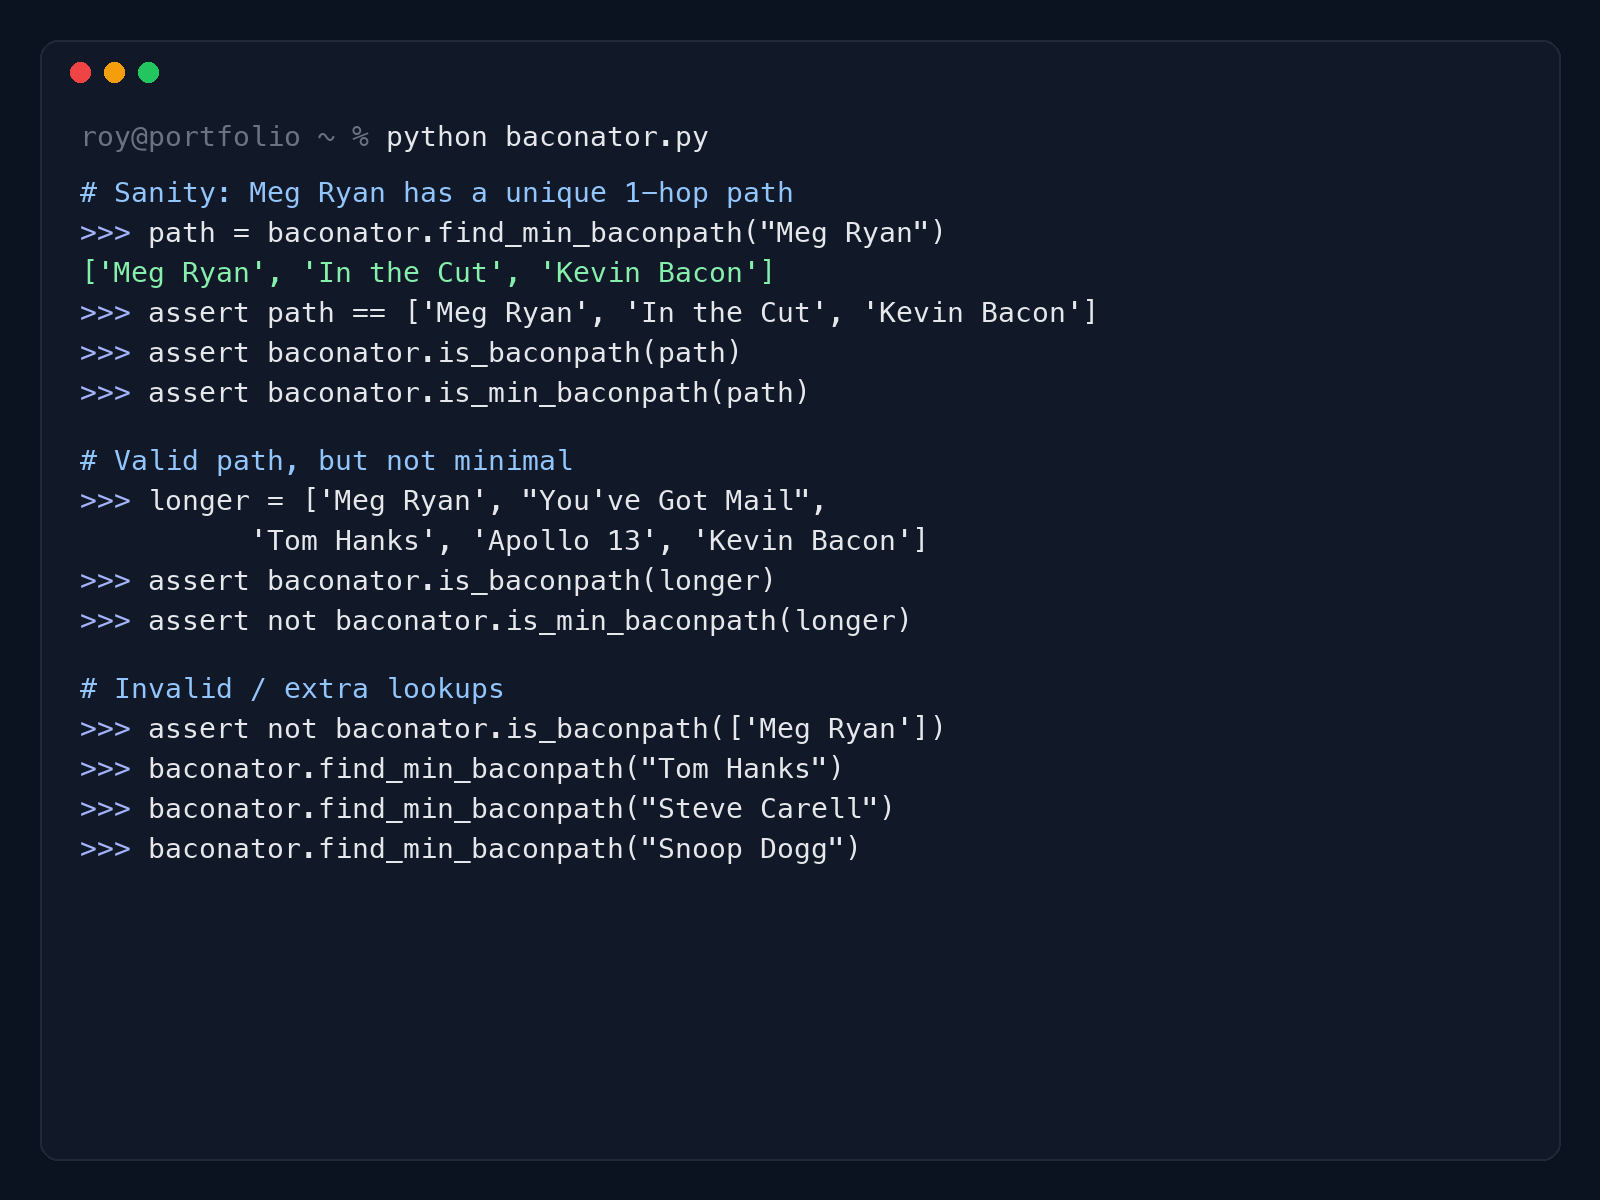
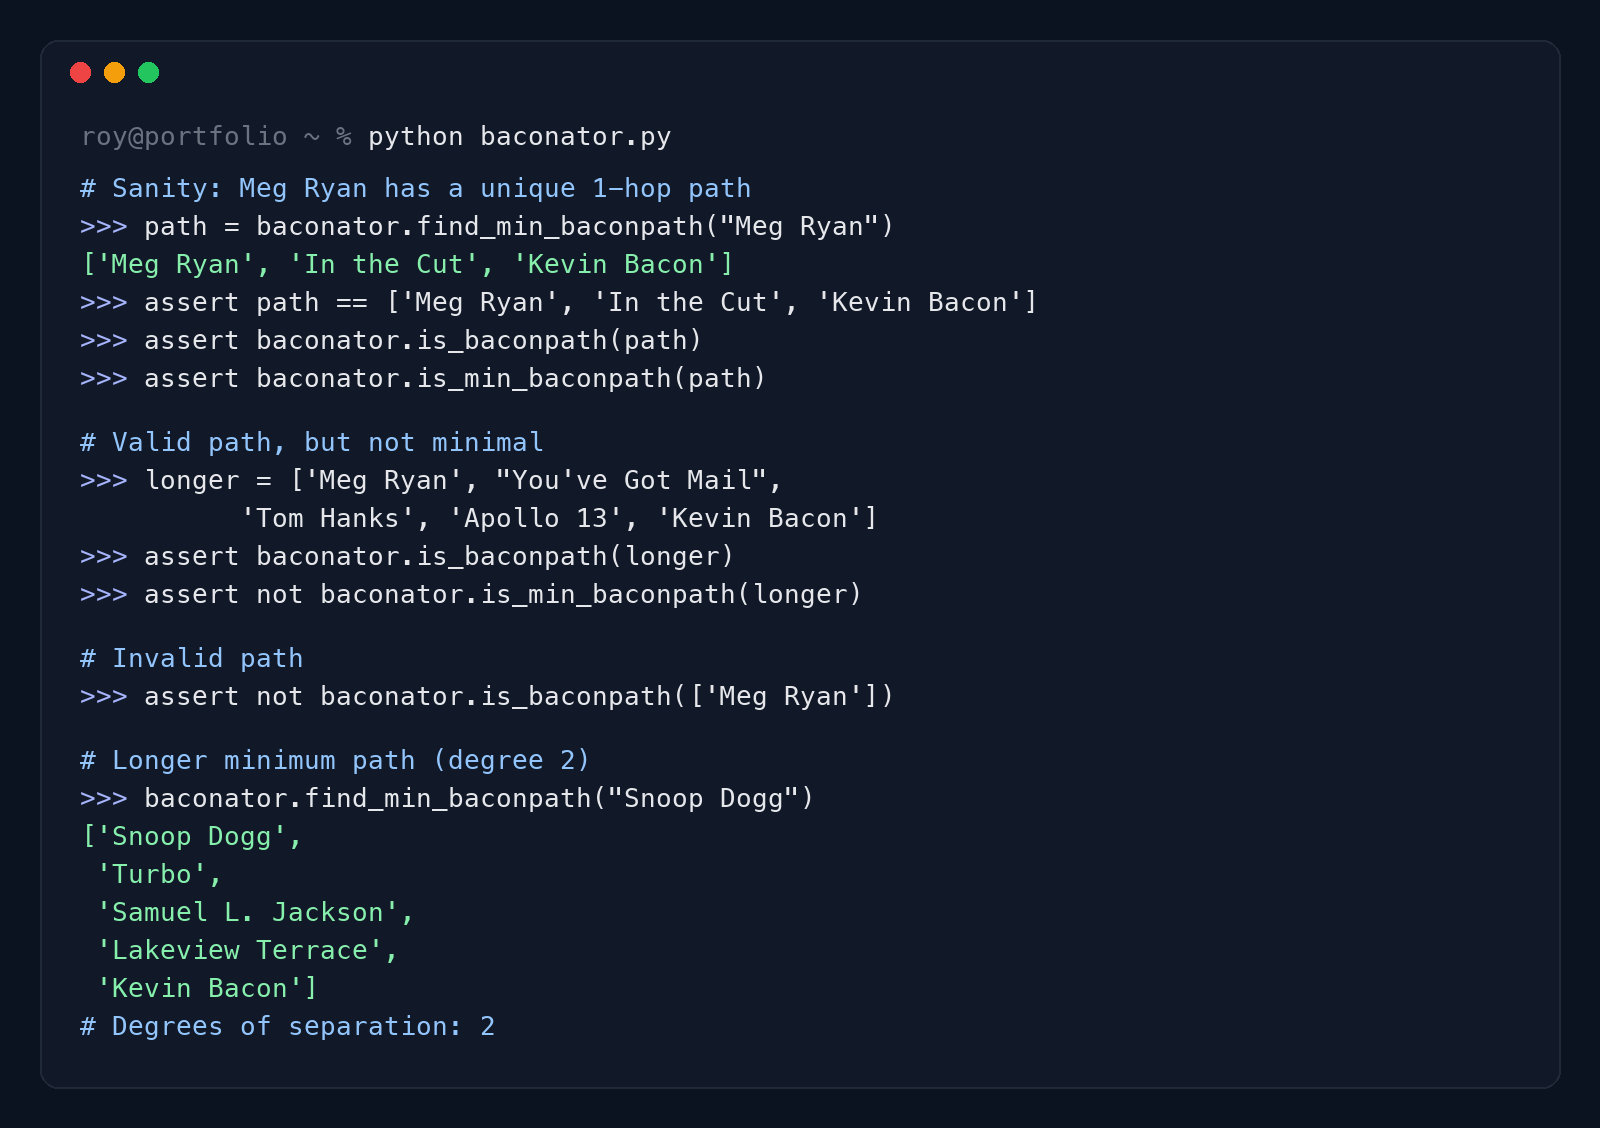
Add degree-2 Snoop Dogg path to Kevin Bacon test cases slide.

Changed region(s): [[0.0312, 0.3723, 0.5938, 0.9309], [0.0312, 0.0931, 0.6875, 0.3413]]

diff --git a/app/lib/projectImages.ts b/app/lib/projectImages.ts
@@ -340,6 +340,6 @@ export const SIX_DEGREES_KEVIN_BACON_MEDIA: ProjectMediaSlide[] = [
     src: "/projects/six-degrees-kevin-bacon/test-cases.png",
     title: "Test cases",
     description:
-      "Sanity checks for minimum paths, valid longer paths, and invalid inputs.",
+      "Sanity checks for minimum paths, valid longer paths, invalid inputs, and a degree-2 Snoop Dogg path.",
   },
 ];
